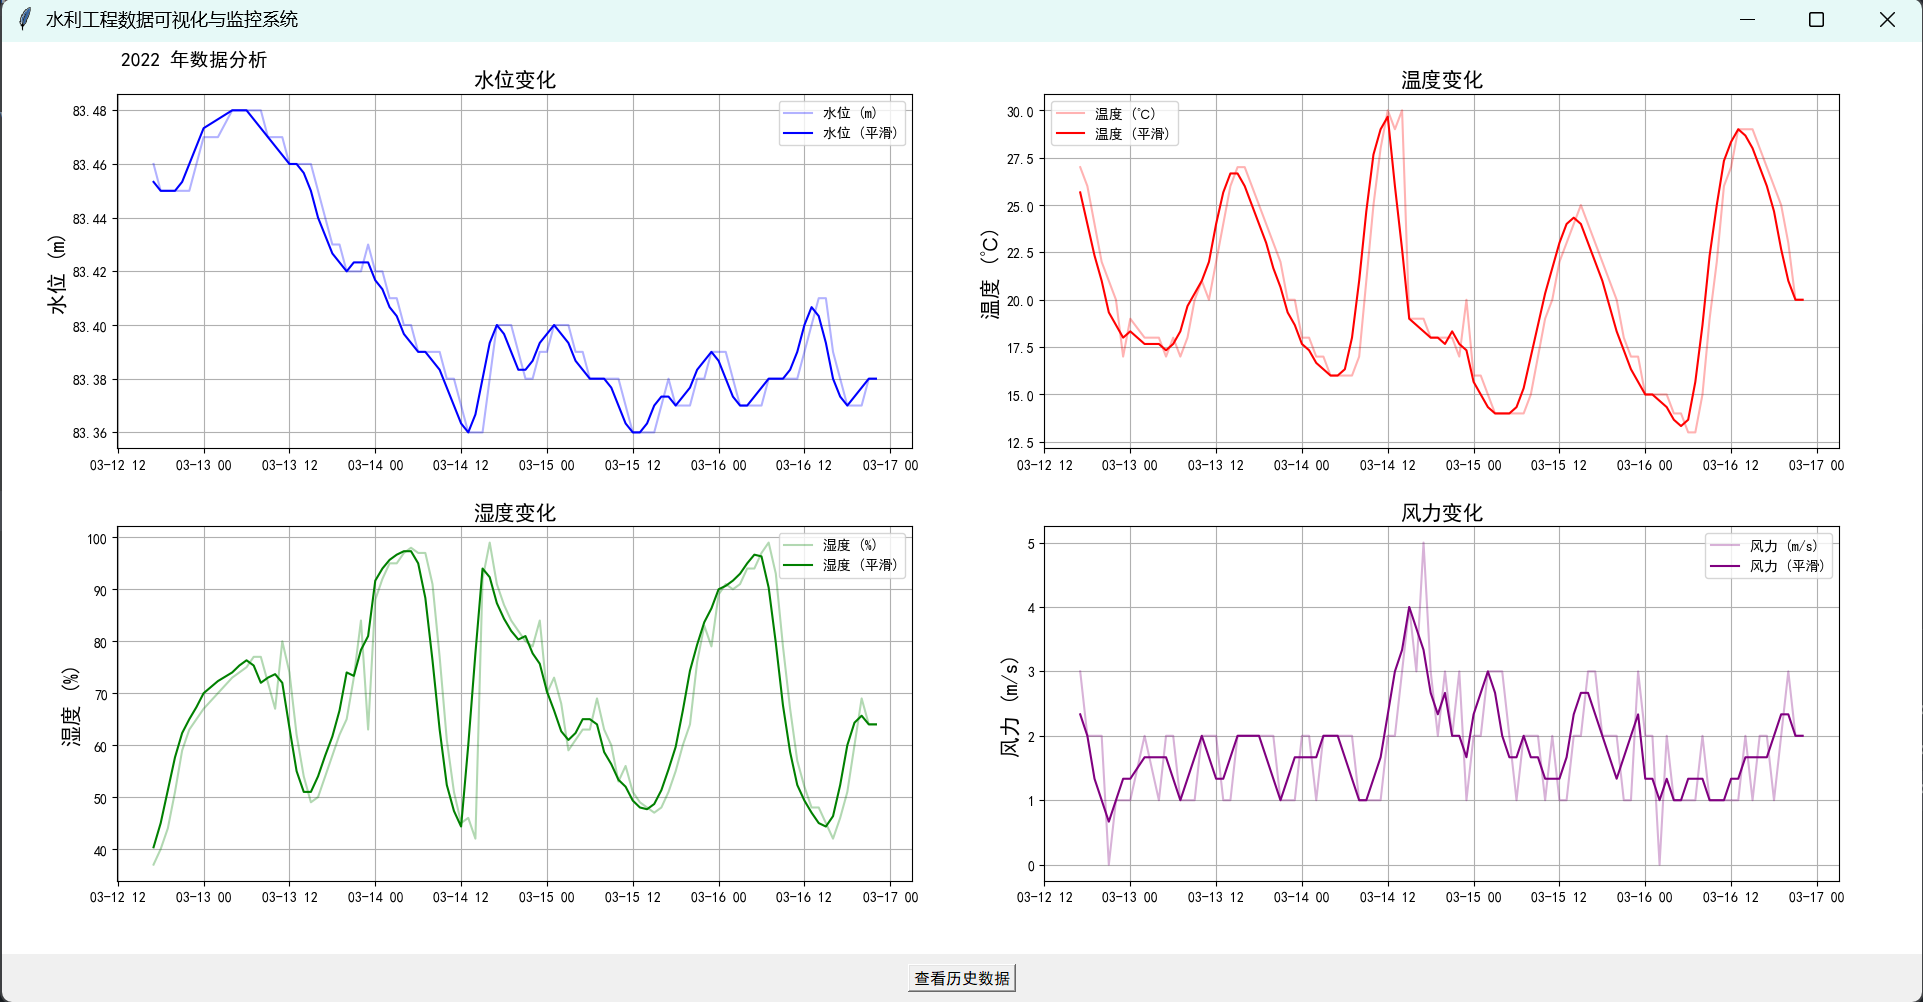
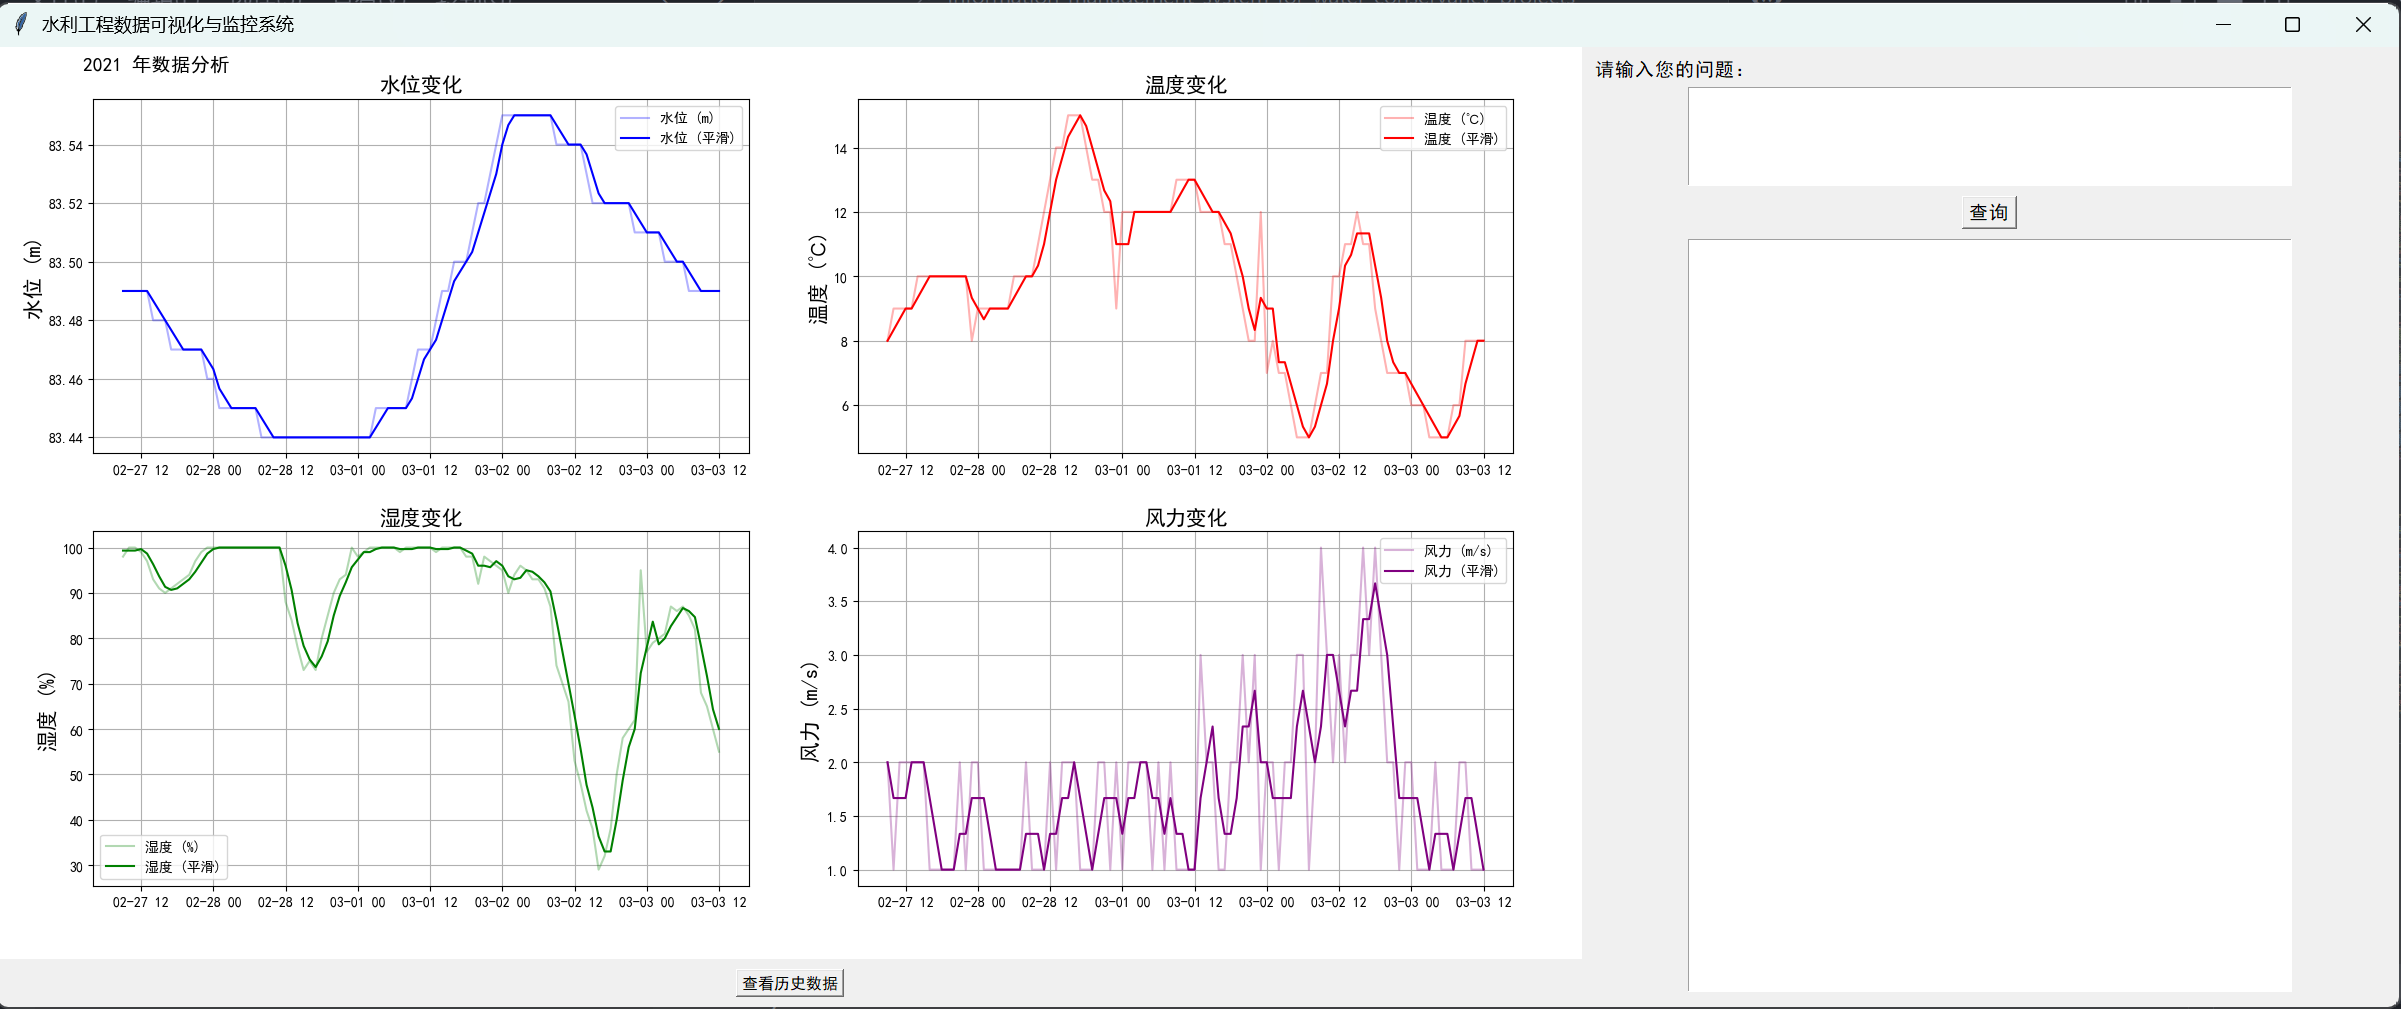
修改简介

diff --git a/README.md b/README.md
@@ -5,7 +5,8 @@
 调整布局，添加背景图片，将GUI界面更加美观<br><br>
 
 3/14 增加了水利数据集，将数据读入数据库，修改main.py使每100条数据更新一次图表，优化视觉体验<br><br>
-3/16 警告弹窗若30秒内未关闭则发送警告邮件，同时检测半个小时内是否发送过警告邮件，若发送过则不再发送。<br><br><br>
+3/16 警告弹窗若30秒内未关闭则发送警告邮件，同时检测半个小时内是否发送过警告邮件，若发送过则不再发送。<br><br>
+3/17 添加了deepseek模块，项目基本完成<br><br><br>
 项目概览<br>
 ![项目概览](https://github.com/GreypLa1n/Information-management-system-for-water-conservancy-projects/blob/main/images/project_overview.png?raw=true)<br><br>
 警告页面<br>
